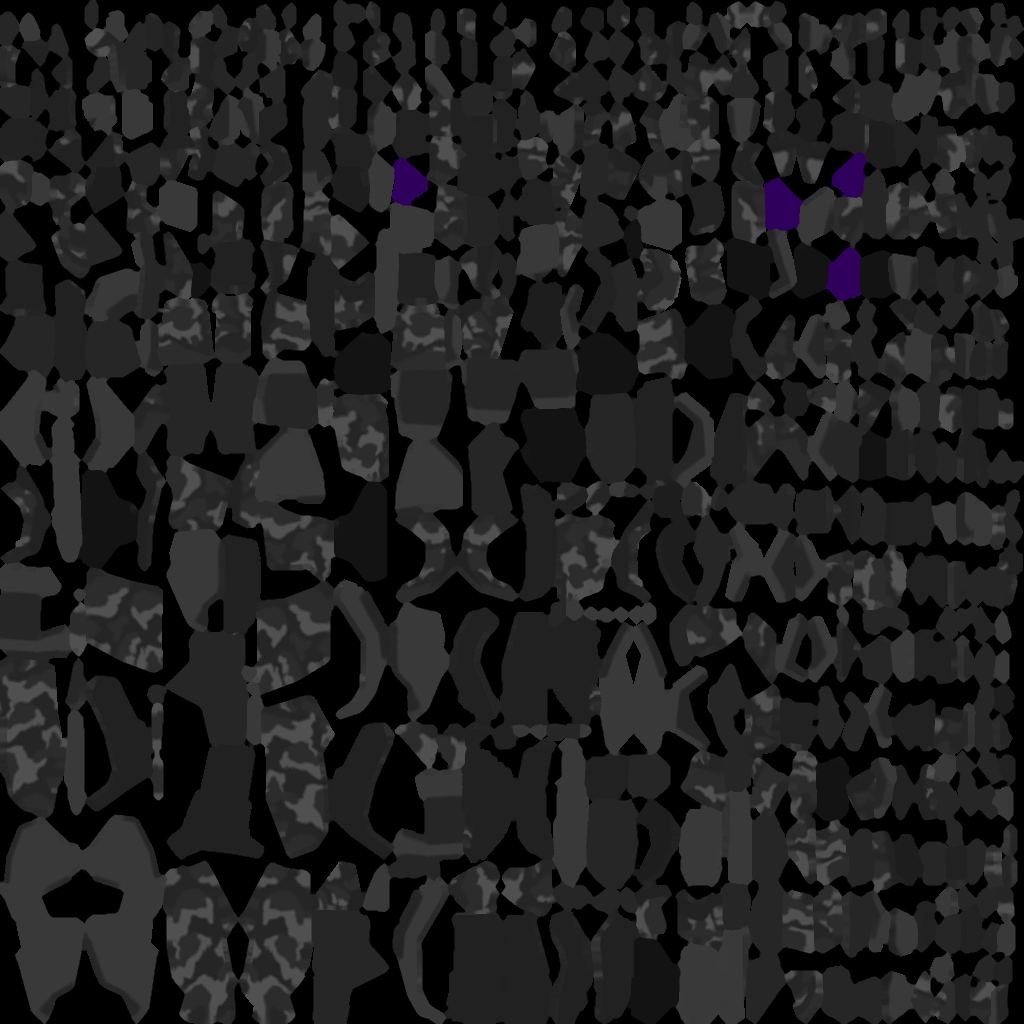
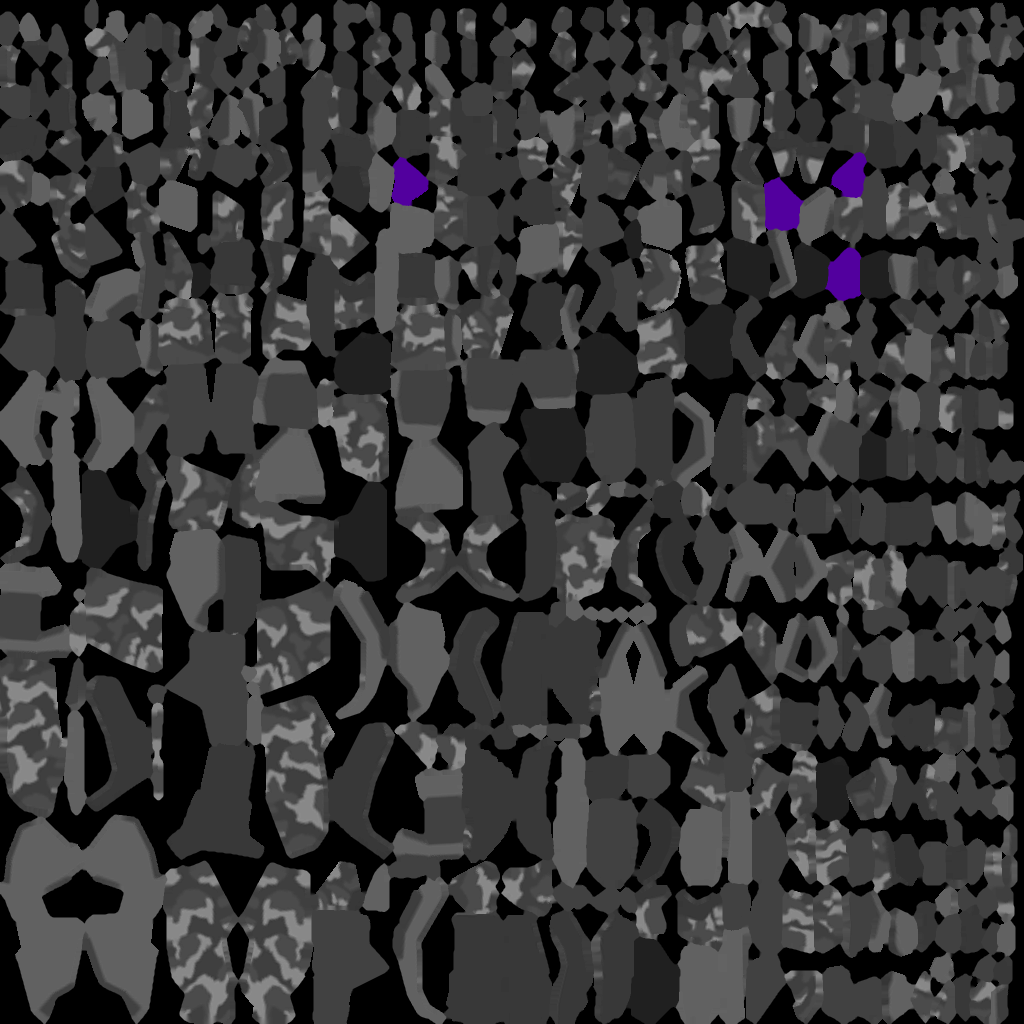
The ODST's texture is lifted by 1.7, as it read as a black shape from the game's camera

diff --git a/Tools/Art/lift_texture.py b/Tools/Art/lift_texture.py
@@ -1,0 +1,21 @@
+# lift_texture.py
+# Brightens a baked body's texture, for one that reads as a black shape from the game's camera: a baked body has no tint that lifts its colours
+# as a real model's material does. Colours keep their proportions. Run it once on the file in Art/Imported/Models, as bring_in.py copies over it:
+#   blender --background --factory-startup --python Tools/Art/lift_texture.py -- <png> <factor>
+# The ODST's came with a median brightness of 0.15, and is lifted by 1.7.
+import sys
+
+import bpy
+import numpy as np
+
+path, factor = sys.argv[sys.argv.index("--") + 1:][:2]
+image = bpy.data.images.load(path)
+image.colorspace_settings.name = "Non-Color"  # The numbers as they are in the file.
+pixels = np.array(image.pixels[:], dtype=np.float32)
+pixels[0::4] = np.clip(pixels[0::4] * float(factor), 0, 1)
+pixels[1::4] = np.clip(pixels[1::4] * float(factor), 0, 1)
+pixels[2::4] = np.clip(pixels[2::4] * float(factor), 0, 1)
+image.pixels[:] = pixels.tolist()
+image.update()
+image.save(filepath=path)
+print("lifted", path, "by", factor)
